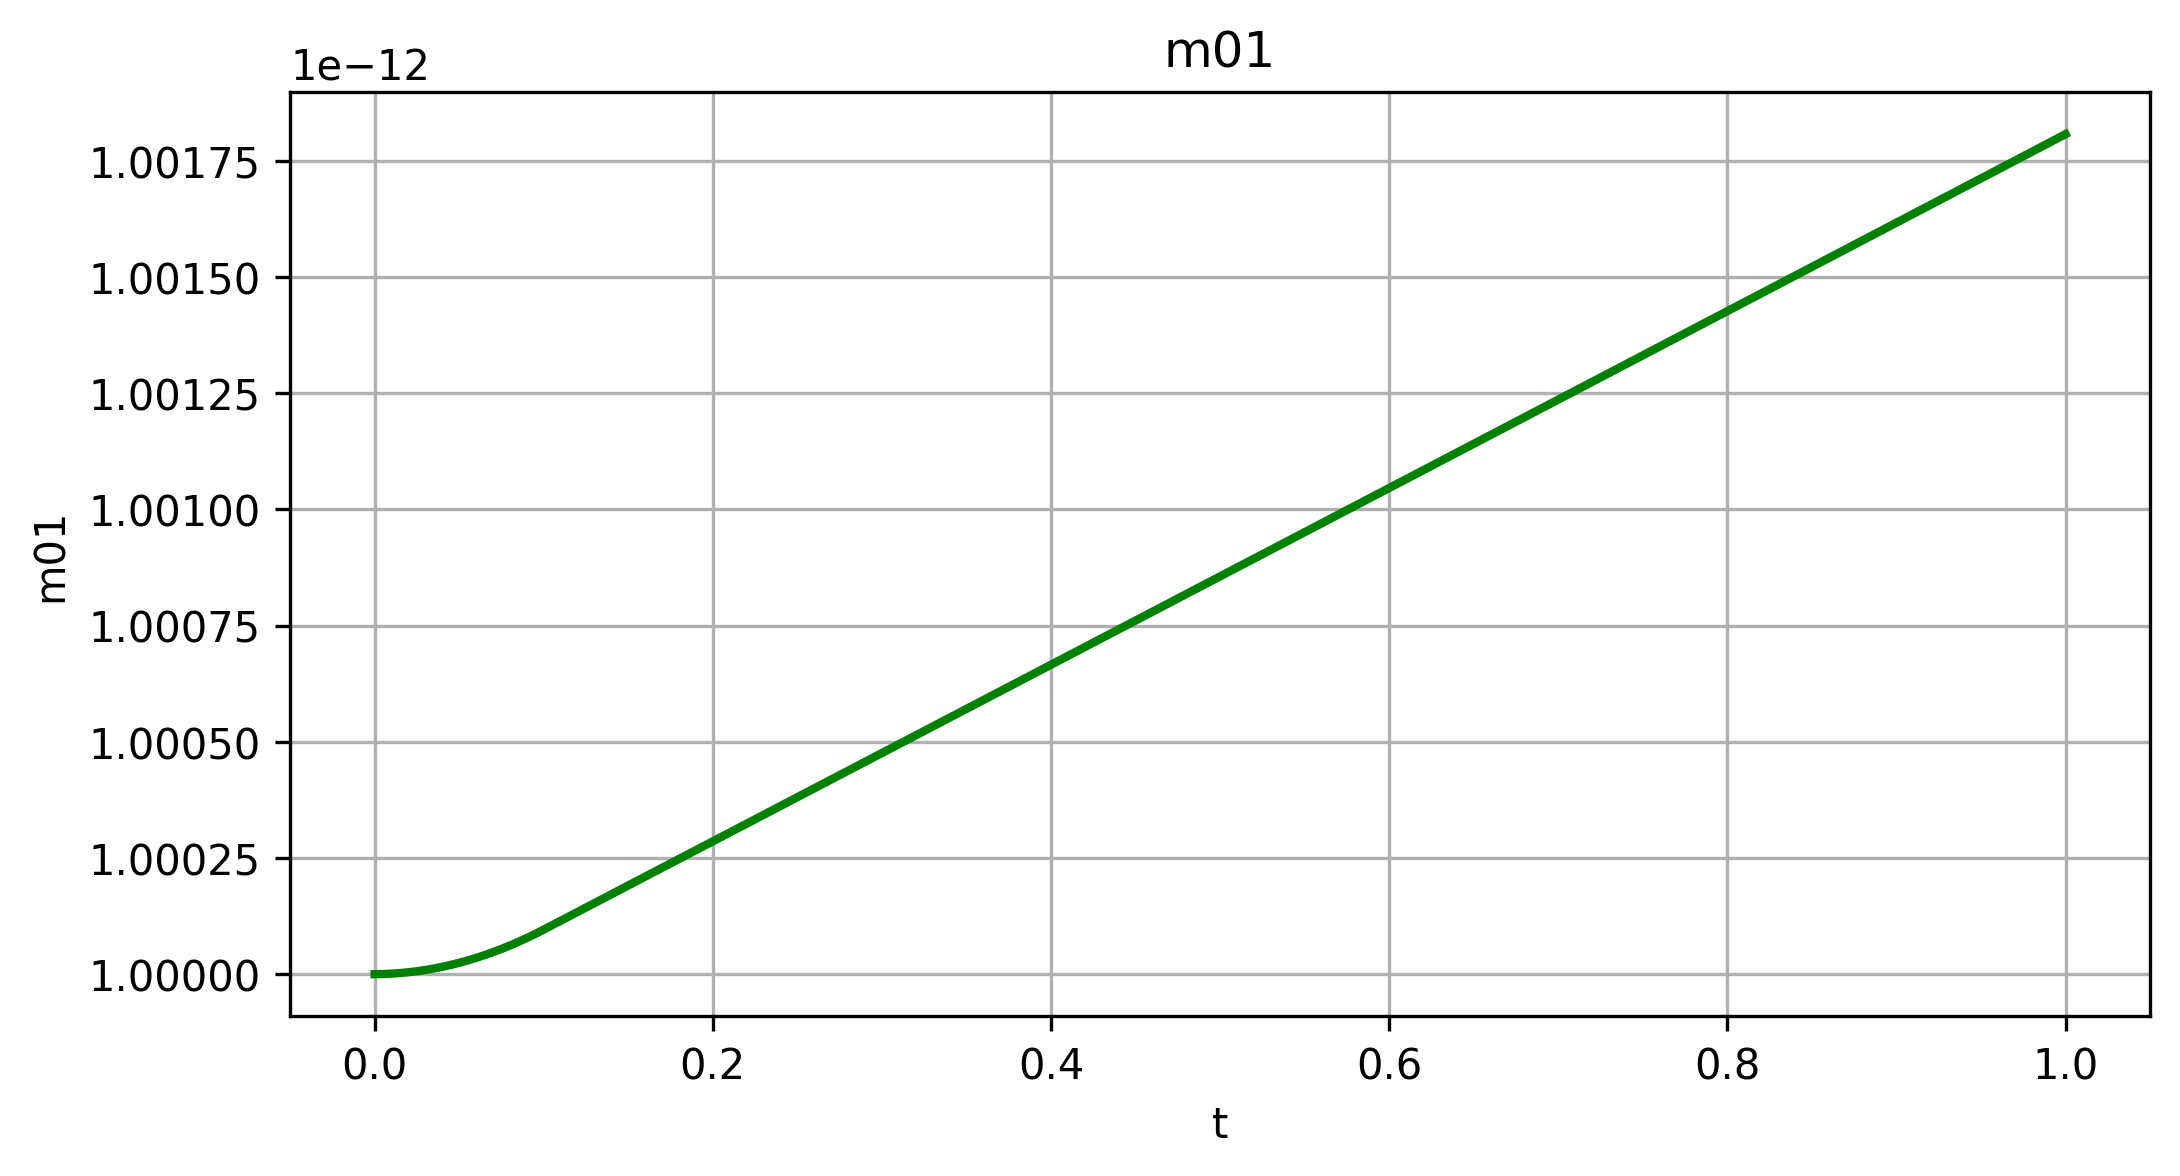
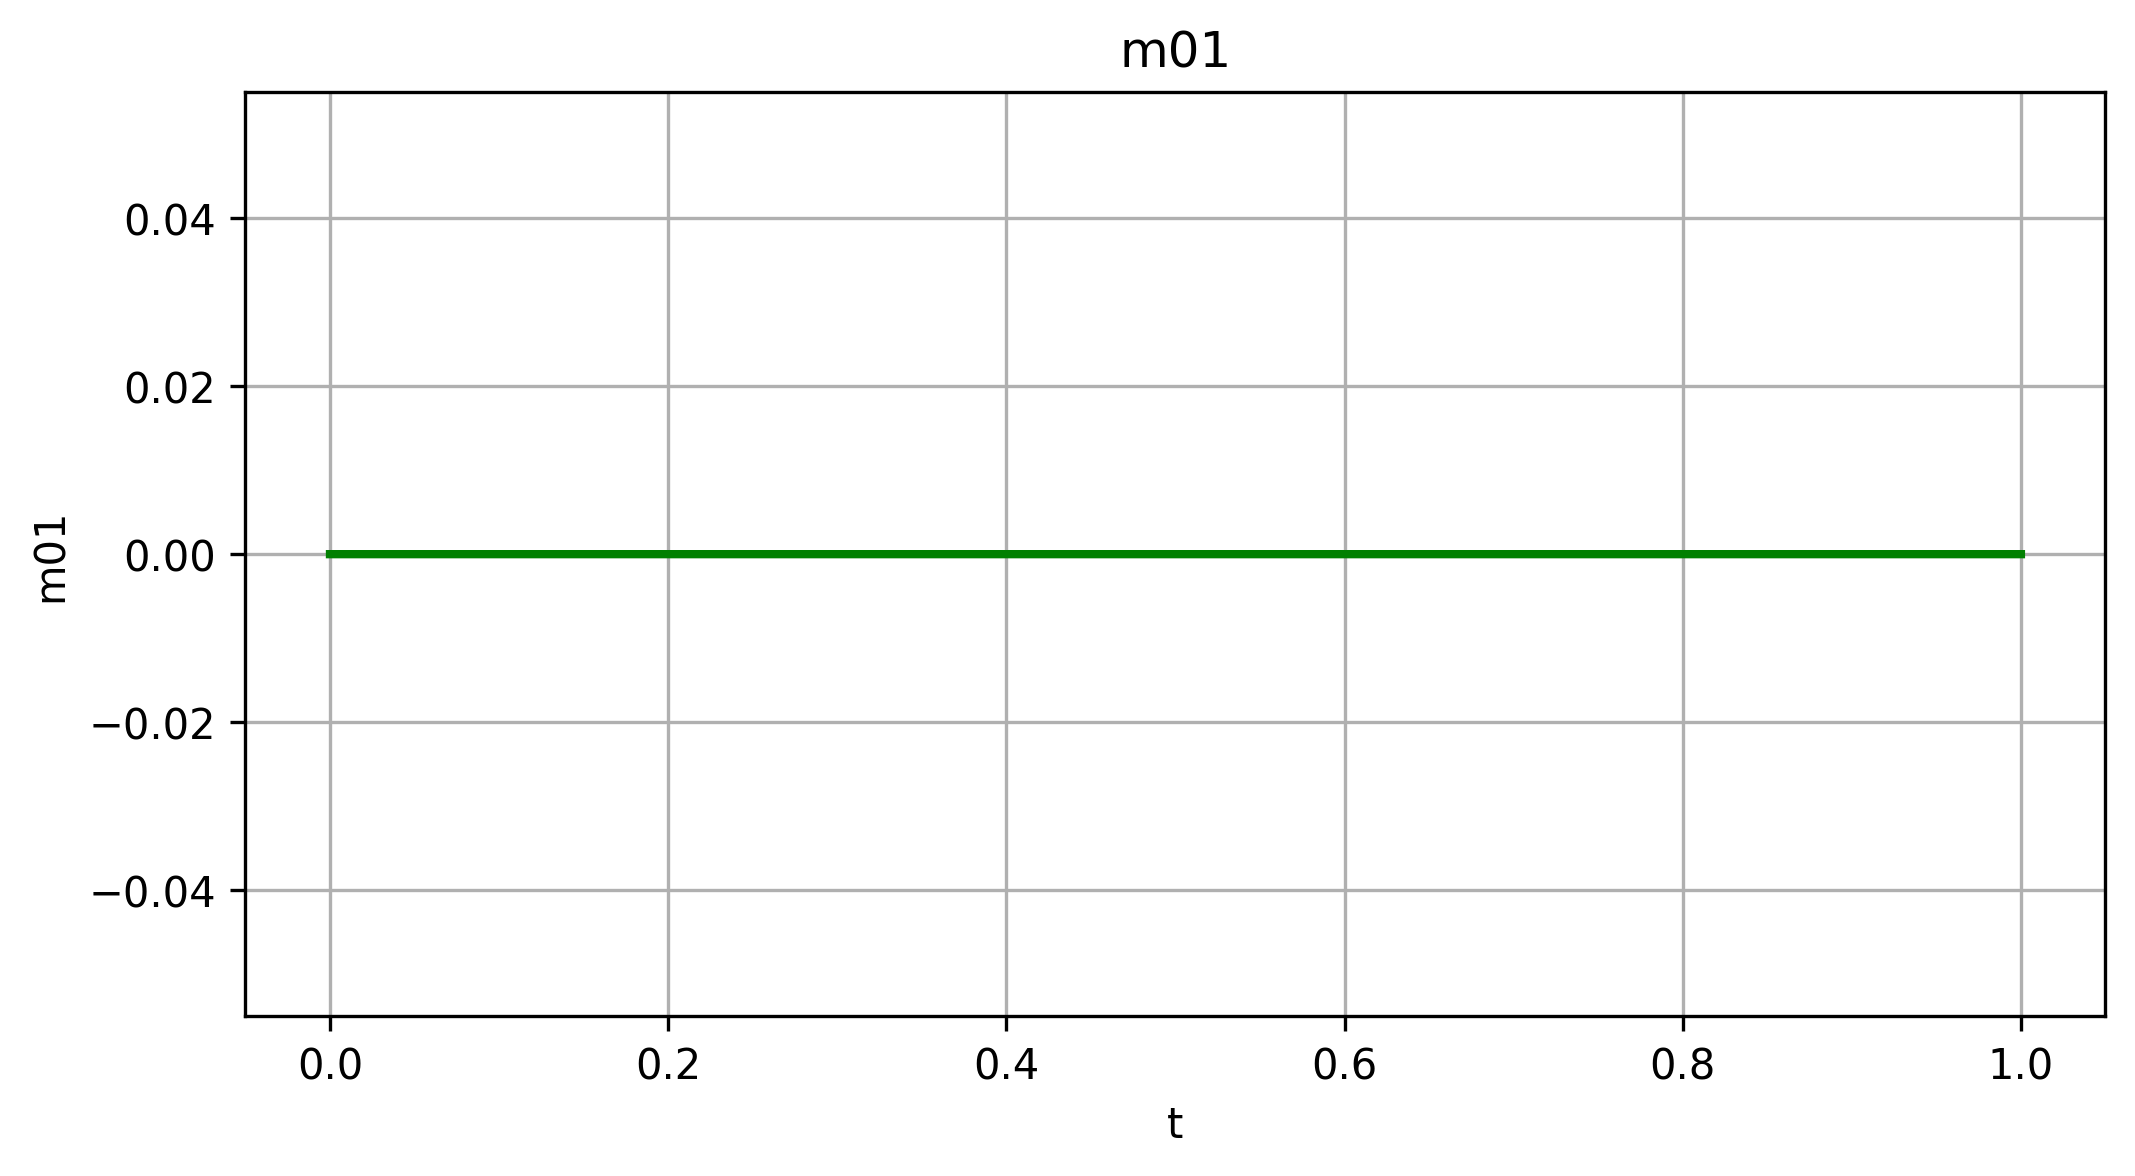
commit v4

diff --git a/rhs.py b/rhs.py
@@ -3,7 +3,7 @@ import numpy as np
 
 def Prav(t, y, pars):
     # y = {m01, m12, m13}
-    m01, m12, m13 = y
+    m01, m12, m13, p1 = y
 
     # -------- p0 : defLinearLaw --------
     if t < 0.0:
@@ -26,11 +26,40 @@ def Prav(t, y, pars):
             1.0 / pars["j13"]
     )
 
-    p1 = num / den
-
+    # p1 = num / den
+    dp1 = (m01 - m12 - m13) / pars["C1"]
     # -------- праві частини --------
     dm01 = (p0 - p1) * pars["a01"] / pars["rho"] * abs(m01) * m01 / pars["j01"]
     dm12 = (p1 - pars["p2"]) * pars["a12"] / pars["rho"] * abs(m12) * m12 / pars["j12"]
     dm13 = (p1 - pars["p3"]) * pars["a13"] / pars["rho"] * abs(m13) * m13 / pars["j13"]
 
-    return np.array([dm01, dm12, dm13]), p1, p0
+    return np.array([dm01, dm12, dm13, dp1]), p0
+# def Prav(t, y, pars):
+#     m01, m12, m13 = y
+#
+#     if t < 0.0:
+#         p0 = 2.24e5
+#     elif t > 0.1:
+#         p0 = 218.602e5
+#     else:
+#         p0 = 2.24e5 + (218.602e5 - 2.24e5) * (t / 0.1)
+#
+#     num = (
+#         p0 * pars["a01"] / pars["rho"] * abs(m01) * m01 / pars["j01"] +
+#         pars["p2"] * pars["a12"] / pars["rho"] * abs(m12) * m12 / pars["j12"] +
+#         pars["p3"] * pars["a13"] / pars["rho"] * abs(m13) * m13 / pars["j13"]
+#     )
+#
+#     den = (
+#         1.0 / pars["j01"] +
+#         1.0 / pars["j12"] +
+#         1.0 / pars["j13"]
+#     )
+#
+#     p1 = num / den
+#
+#     dm01 = (p0 - p1) * pars["a01"] / pars["rho"] * abs(m01) * m01 / pars["j01"]
+#     dm12 = (p1 - pars["p2"]) * pars["a12"] / pars["rho"] * abs(m12) * m12 / pars["j12"]
+#     dm13 = (p1 - pars["p3"]) * pars["a13"] / pars["rho"] * abs(m13) * m13 / pars["j13"]
+#
+#     return np.array([dm01, dm12, dm13])

diff --git a/main.py b/main.py
@@ -19,12 +19,13 @@ pars = {
     "j13": 37852.4,
     "rho": 814.41,
     "p2": 1e5,
-    "p3": 1e5
+    "p3": 1e5,
+    "C1": 1.27465e-9
 }
 
 # ===== ПОЧАТКОВІ УМОВИ =====
 # y = np.array([0.0, 0.0, 0.0])   # {m01, m12, m13}
-y = np.array([1e-12, 1e-12, 1e-12])
+y = np.array([0, 0, 0, 1e5])
 
 
 # ===== ЗБІР РЕЗУЛЬТАТІВ =====
@@ -36,11 +37,12 @@ for j in range(n):
     t = TIME
 
     if j % 1 == 0:
-        _, p1, p0 = Prav(t, y, pars)
-        result.append((t, y[0], y[1], y[2], p1, p0))
+        _, p0 = Prav(t, y, pars)
+        result.append((t, y[0], y[1], y[2], y[3], p0))
 
     # ---- інтегрування ----
     y = RK4(Prav, y, TIME, dt, pars)
+    # y += dt * Prav(t, y, pars)
 
     TIME += dt
 

diff --git a/integrators.py b/integrators.py
@@ -2,9 +2,9 @@
 import numpy as np
 
 def RK4(rhs, y, t, h, pars):
-    k1, _, _ = rhs(t, y, pars)
-    k2, _, _ = rhs(t + 0.5*h, y + 0.5*h*k1, pars)
-    k3, _, _ = rhs(t + 0.5*h, y + 0.5*h*k2, pars)
-    k4, _, _ = rhs(t + h, y + h*k3, pars)
+    k1, _ = rhs(t, y, pars)
+    k2, _ = rhs(t + 0.5*h, y + 0.5*h*k1, pars)
+    k3, _ = rhs(t + 0.5*h, y + 0.5*h*k2, pars)
+    k4, _ = rhs(t + h, y + h*k3, pars)
 
     return y + (h / 6.0) * (k1 + 2*k2 + 2*k3 + k4)
